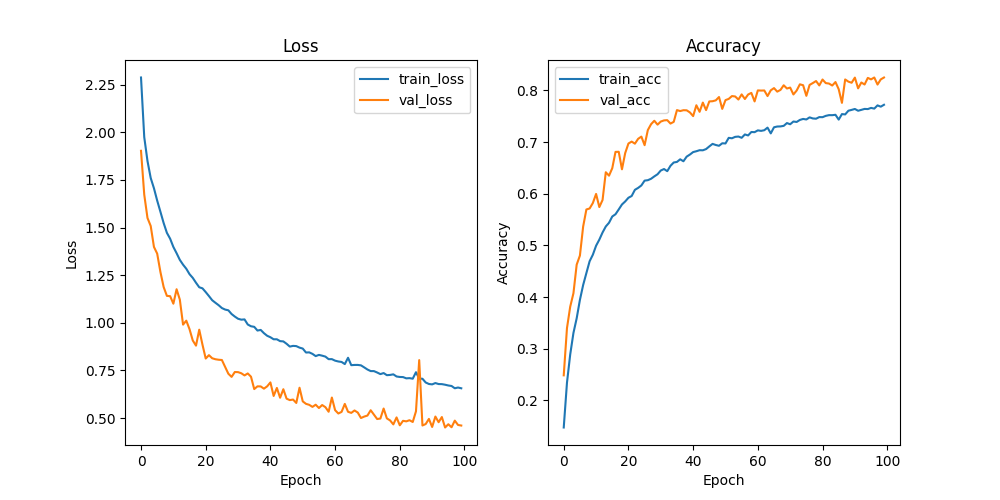
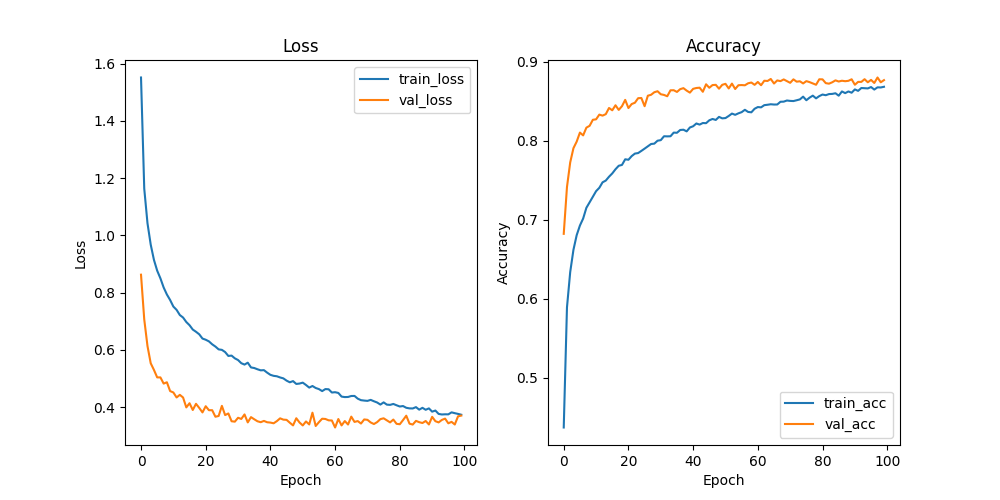
add model

diff --git a/cifar10_train.py b/cifar10_train.py
@@ -23,7 +23,6 @@ transform_train = transforms.Compose(
     [
         # data augmentation
         transforms.RandomHorizontalFlip(),
-        transforms.RandomVerticalFlip(),
         transforms.RandomRotation(30),
         transforms.TrivialAugmentWide(),
         # data normalization
@@ -49,12 +48,12 @@ train_loader = torch.utils.data.DataLoader(trainset, batch_size=batch_size, shuf
 val_loader = torch.utils.data.DataLoader(valset, batch_size=batch_size, shuffle=False, num_workers=2)
 
 # Load pretrained VGG19 model with batch normalization
-# model = torchvision.models.vgg19_bn(pretrained=True)
+model = torchvision.models.vgg19_bn(pretrained=True)
 # Change the last layer to fit the CIFAR10 dataset
-# model.classifier[6] = nn.Linear(4096, num_classes)
+model.classifier[6] = nn.Linear(4096, num_classes)
 
-# Load VGG_bn model without pretrained weights
-model = torchvision.models.vgg19_bn(num_classes=num_classes)
+# Load VGG_bn model without pretrained weights (need to train for longer time to get good result)
+# model = torchvision.models.vgg19_bn(num_classes=num_classes)
 
 # Move the model to GPU for calculation
 model = model.to(device)
@@ -144,10 +143,10 @@ plt.ylabel("Accuracy")
 plt.title("Accuracy")
 plt.legend()
 
+# Save the image
+plt.savefig(f"./epoch_{epochs}.png")
+# Show the image
 plt.show()
 
-# Save the image
-plt.savefig(f"./epoch_{epoch}.png")
-
 # Save the model
-torch.save(model.state_dict(), "./model.pth")
+torch.save(model.state_dict(), f"./model_{epochs}.pth")
